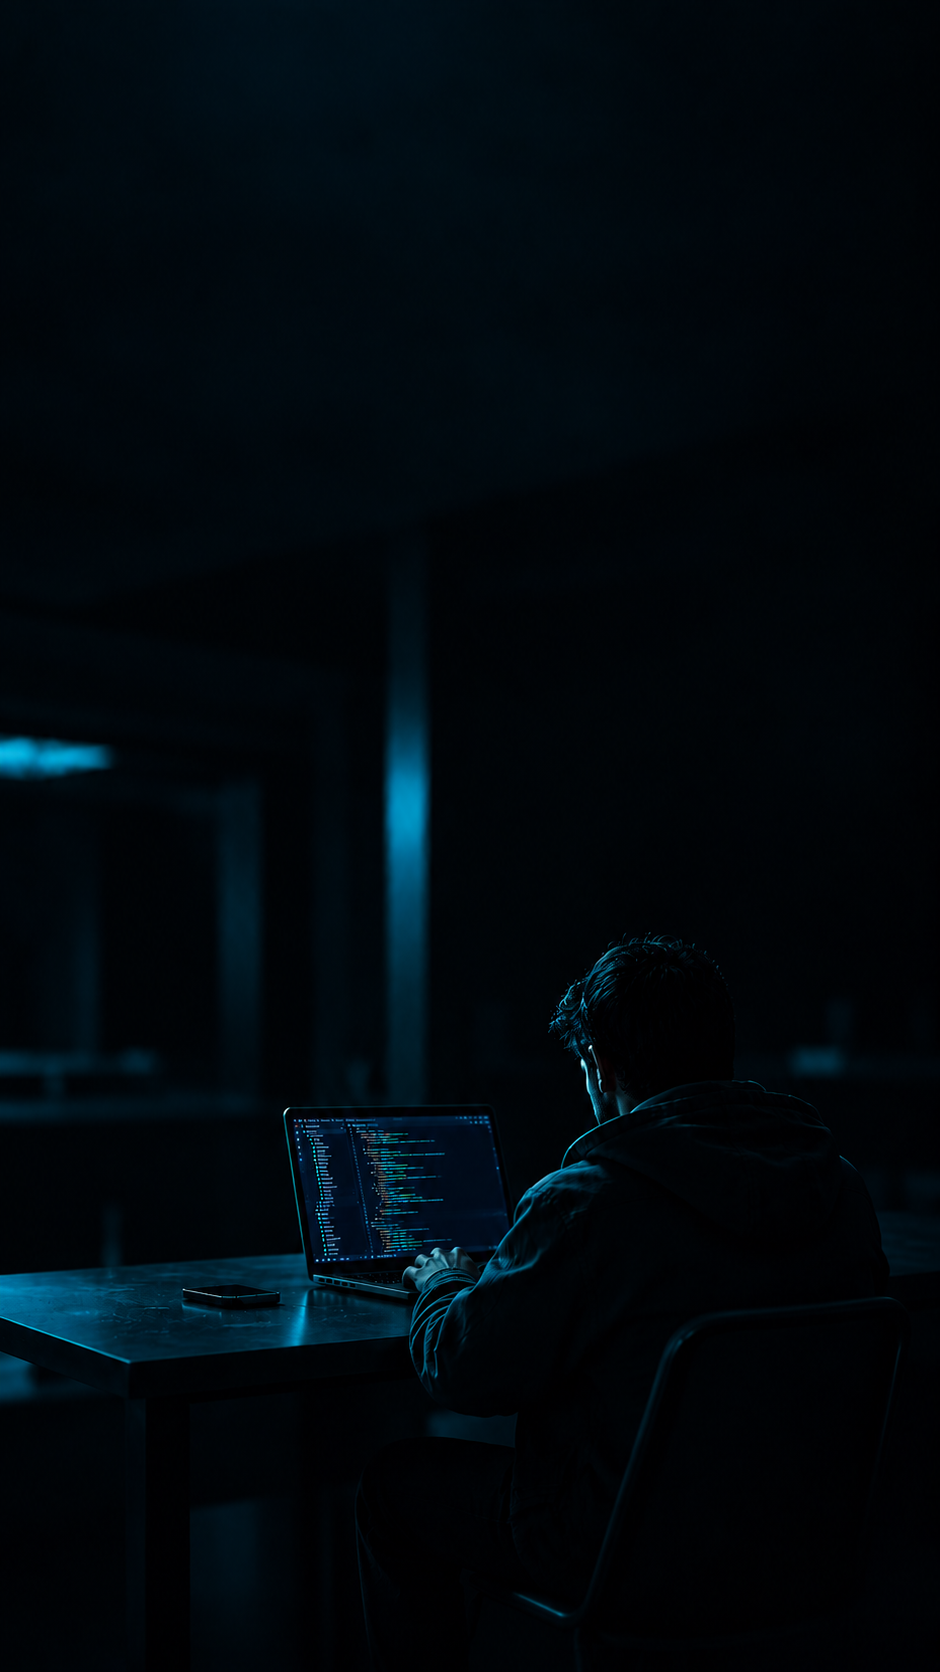
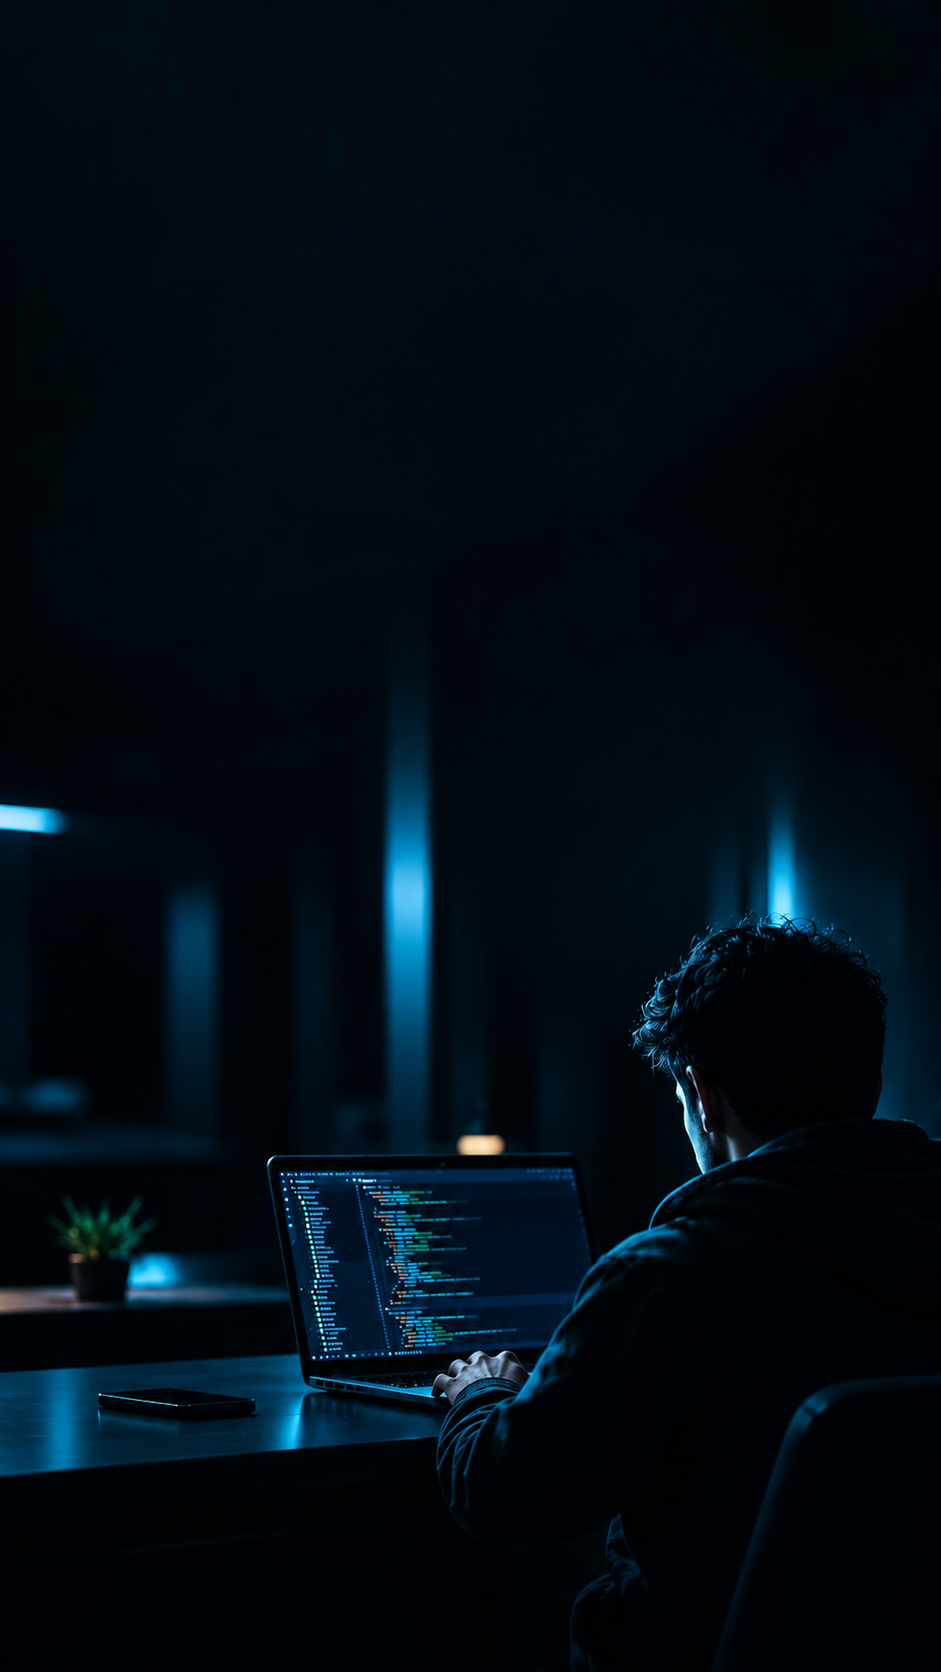
Ajusta el Hero a la referencia y hace transparente la barra de navegación
Usa la foto de referencia tal cual como fondo del Hero, cambia el color
de la línea media del título de contorno hueco a lavanda sólida, y
agrega el bloque "IDEAS / SISTEMAS / RESULTADOS" que faltaba en mobile.

La barra de navegación pierde su fondo sólido (queda transparente sobre
el contenido); el menú mobile desplegable conserva su propio fondo para
seguir siendo legible.

diff --git a/components/Nav.tsx b/components/Nav.tsx
@@ -25,14 +25,7 @@ export function Nav() {
   }, []);
 
   return (
-    <header
-      className={cn(
-        "sticky top-0 z-50 bg-brand-black/90 backdrop-blur transition-all duration-300",
-        scrolled
-          ? "bg-brand-black/95 shadow-[0_18px_40px_-20px_rgba(0,0,0,0.65)]"
-          : "shadow-[0_10px_28px_-18px_rgba(0,0,0,0.45)]",
-      )}
-    >
+    <header className="sticky top-0 z-50 transition-all duration-300">
       <div
         className={cn(
           "mx-auto flex max-w-6xl items-center justify-between px-5 transition-[height] duration-300 sm:px-8",
@@ -99,7 +92,7 @@ export function Nav() {
       </div>
 
       {open && (
-        <nav className="flex flex-col gap-1 border-t border-brand-line-on-black px-5 pb-5 pt-3 sm:hidden">
+        <nav className="flex flex-col gap-1 border-t border-brand-line-on-black bg-brand-black/95 px-5 pb-5 pt-3 backdrop-blur sm:hidden">
           {LINKS.map((link) => (
             <a
               key={link.href}

diff --git a/components/Hero.tsx b/components/Hero.tsx
@@ -140,6 +140,26 @@ export function Hero() {
             </span>
             <ArrowDown className="h-3 w-3 text-brand-ink-on-black-soft" />
           </div>
+
+          <motion.div
+            initial="hidden"
+            animate={start ? "show" : "hidden"}
+            variants={fadeUp}
+            transition={{ duration: 0.5, ease: [0.16, 1, 0.3, 1], delay: 0.6 }}
+            className="mt-8 flex gap-3 sm:mt-10 lg:hidden"
+          >
+            <span className="w-px bg-brand-accent" />
+            <div className="flex flex-col justify-center gap-1.5">
+              {["IDEAS", "SISTEMAS", "RESULTADOS"].map((word) => (
+                <span
+                  key={word}
+                  className="font-body text-[11px] font-semibold tracking-[0.2em] text-brand-ink-on-black-soft"
+                >
+                  {word}
+                </span>
+              ))}
+            </div>
+          </motion.div>
         </div>
 
         <motion.div

diff --git a/app/globals.css b/app/globals.css
@@ -206,11 +206,9 @@
       0 100%, 0 100%,
       100% 100%, 100% 100%;
   }
-  /* línea "hueca" del H1 del Hero: relleno transparente, solo contorno */
+  /* línea media del H1 del Hero: lavanda sólida, entre el crema y el turquesa */
   .text-hero-outline {
-    color: transparent;
-    -webkit-text-stroke: 1.5px var(--brand-cream);
-    text-stroke: 1.5px var(--brand-cream);
+    color: #bfc8e4;
   }
   /* indicador "seguí descubriendo" del hero: puntito que baja dentro del mouse */
   @keyframes scroll-wheel {
